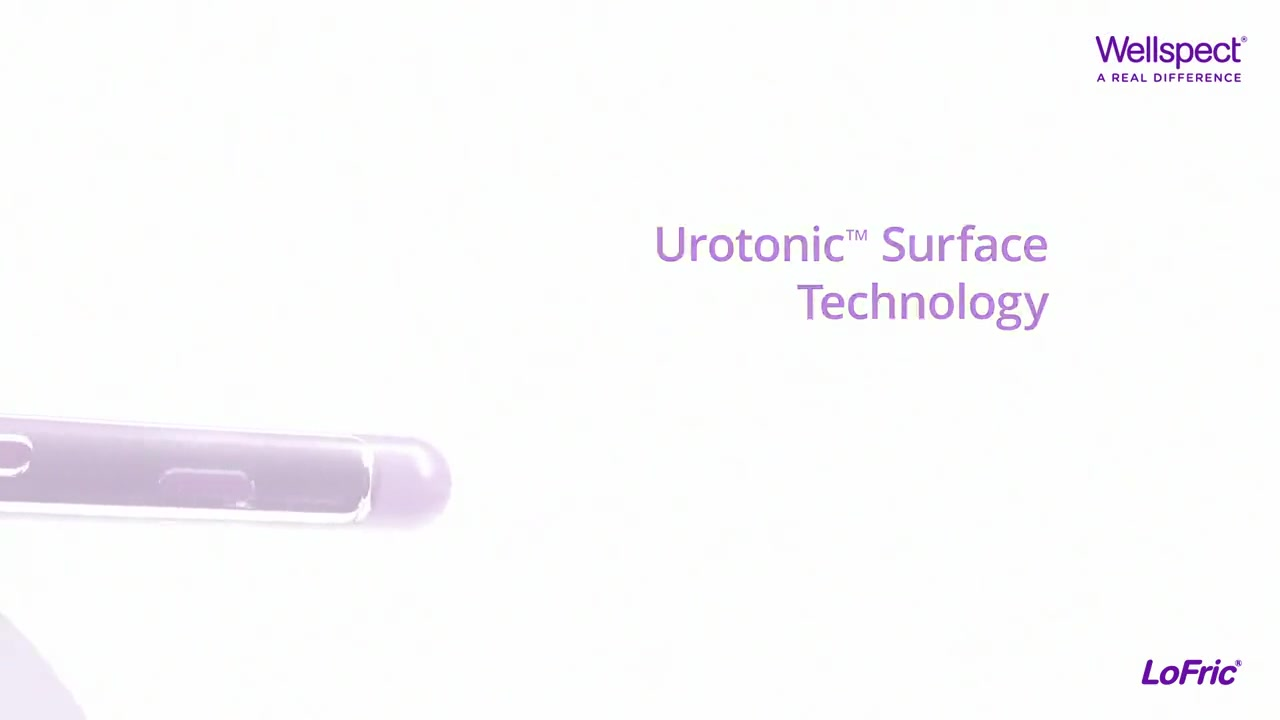
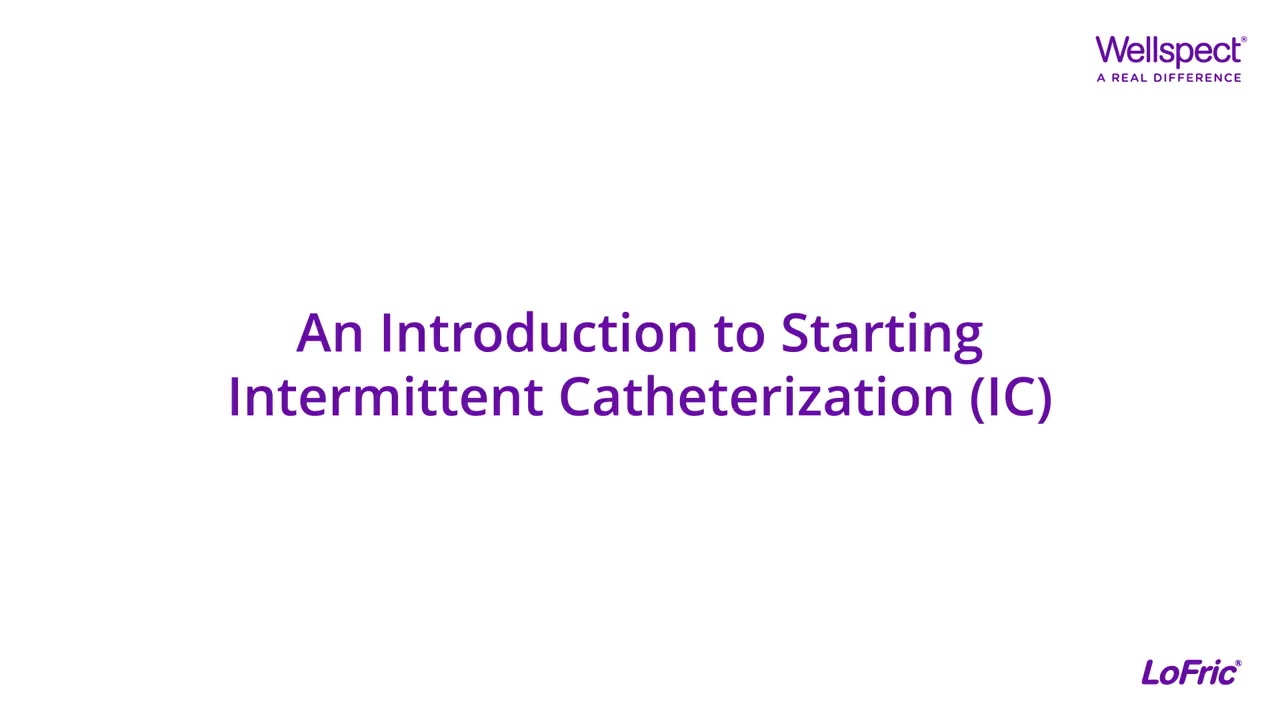
Calm the IC video cards to the feature-card height.
Style them like the Arabic videos card and use each film’s opening title card as the thumbnail.

Changed region(s): [[0.0, 0.3972, 0.8438, 0.7333], [0.5, 0.3056, 0.8438, 0.3667]]

diff --git a/src/routes/index.tsx b/src/routes/index.tsx
@@ -1,5 +1,5 @@
 import { createFileRoute, Link } from "@tanstack/react-router";
-import { useEffect, useMemo, useState } from "react";
+import { useEffect, useLayoutEffect, useMemo, useRef, useState } from "react";
 import { ArrowLeft, Search, X } from "lucide-react";
 import {
   categoryLabels,
@@ -102,6 +102,29 @@ function Index() {
   const showCategories = !searching && active === null;
   const showContact = !searching && active === "contact";
   const icVideos = getIcHomeVideos(locale);
+  const featureCardRef = useRef<HTMLButtonElement>(null);
+  const videoRowRef = useRef<HTMLUListElement>(null);
+
+  useLayoutEffect(() => {
+    const feature = featureCardRef.current;
+    const row = videoRowRef.current;
+    if (!feature || !row) return;
+    const apply = () => {
+      const height = Math.round(feature.getBoundingClientRect().height);
+      row.querySelectorAll<HTMLButtonElement>(":scope > li > button").forEach((button) => {
+        button.style.height = `${height}px`;
+      });
+    };
+    apply();
+    const observer = new ResizeObserver(apply);
+    observer.observe(feature);
+    window.addEventListener("resize", apply);
+    return () => {
+      observer.disconnect();
+      window.removeEventListener("resize", apply);
+    };
+  }, [locale, icVideos.length]);
+
   const secondaryCard =
     "border-border bg-card focus-visible:ring-primary flex min-h-24 w-full flex-col justify-between rounded-2xl border p-5 text-left shadow-soft transition-colors hover:bg-muted/40 focus-visible:ring-2 focus-visible:outline-none";
 
@@ -205,17 +228,18 @@ function Index() {
                     headline={categoryFeatures[c].headline[locale]}
                     subtitle={categoryFeatures[c].subtitle[locale]}
                     onSelect={() => setActive(c)}
+                    buttonRef={c === "women" ? featureCardRef : undefined}
                   />
                 </li>
               ))}
             </ul>
             {icVideos.length > 0 ? (
-              <ul className="mt-6 grid gap-4 md:grid-cols-2">
+              <ul ref={videoRowRef} className="mt-4 grid items-stretch gap-4 md:grid-cols-2">
                 {icVideos.map((video) => (
-                  <li key={video.id}>
+                  <li key={video.id} className="flex">
                     <IcHomeVideoCard
                       video={video}
-                      className="border-border bg-card focus-visible:ring-primary flex h-full w-full flex-col rounded-3xl border p-4 text-left shadow-lift transition-transform duration-300 hover:-translate-y-0.5 focus-visible:ring-2 focus-visible:outline-none sm:p-5"
+                      className={`${secondaryCard} h-full w-full overflow-hidden`}
                     />
                   </li>
                 ))}

diff --git a/src/components/IcHomeVideo.tsx b/src/components/IcHomeVideo.tsx
@@ -69,22 +69,24 @@ export function IcHomeVideoCard({ video, className }: { video: IcHomeVideo; clas
     >
       <DialogTrigger asChild>
         <button type="button" className={className}>
-          <span className="bg-muted relative block overflow-hidden rounded-xl">
+          <span className="flex items-start gap-3">
+            <span className="border-border bg-background text-foreground grid size-9 shrink-0 place-items-center rounded-full border">
+              <Play className="size-4 translate-x-px" aria-hidden="true" />
+            </span>
+            <span className="min-w-0">
+              <span className="text-card-foreground block text-lg font-semibold tracking-tight text-balance">
+                {video.title}
+              </span>
+              <span className="text-muted-foreground mt-3 block text-base">{video.duration}</span>
+            </span>
+          </span>
+          <span className="bg-muted mt-4 flex min-h-28 flex-1 items-center justify-center overflow-hidden rounded-xl">
             <img
               src={publicUrl(video.poster)}
               alt=""
-              className="aspect-video w-full object-cover"
+              className="h-full max-h-full w-full object-contain"
             />
-            <span className="absolute inset-0 grid place-items-center">
-              <span className="text-foreground grid size-10 place-items-center rounded-full bg-white/90 shadow-soft">
-                <Play className="size-4 translate-x-px" aria-hidden="true" />
-              </span>
-            </span>
           </span>
-          <span className="text-card-foreground mt-4 block text-xl font-semibold tracking-tight text-balance sm:text-2xl">
-            {video.title}
-          </span>
-          <span className="text-muted-foreground mt-1 block text-sm">{video.duration}</span>
         </button>
       </DialogTrigger>
       <DialogContent className="max-h-[min(88dvh,52rem)] overflow-y-auto rounded-3xl sm:max-w-2xl clinic-landscape:max-w-3xl">

diff --git a/src/components/CategoryFeatureCard.tsx b/src/components/CategoryFeatureCard.tsx
@@ -1,3 +1,4 @@
+import type { Ref } from "react";
 import type { CategoryFeature } from "@/data/category-features";
 import { publicUrl } from "@/lib/public-url";
 
@@ -25,15 +26,18 @@ export function CategoryFeatureCard({
   headline,
   subtitle,
   onSelect,
+  buttonRef,
 }: {
   feature: CategoryFeature;
   headline: string;
   subtitle: string;
   onSelect: () => void;
+  buttonRef?: Ref<HTMLButtonElement>;
 }) {
   const { accent, figure, image } = feature;
   return (
     <button
+      ref={buttonRef}
       type="button"
       onClick={onSelect}
       className="group focus-visible:ring-primary relative flex h-full min-h-48 w-full flex-row items-stretch overflow-hidden rounded-3xl border bg-card text-left shadow-lift transition-transform duration-300 hover:-translate-y-0.5 focus-visible:ring-2 focus-visible:outline-none active:translate-y-0 md:min-h-[22rem] md:flex-col"

diff --git a/src/data/ic-home-videos.ts b/src/data/ic-home-videos.ts
@@ -26,7 +26,7 @@ const icHomeVideos: Array<{
     videoByLocale: {
       en: {
         title: "Introduction to IC for women",
-        // ic-video-2, 3:29. Poster is the Urotonic frame at 00:02:44.
+        // ic-video-2 opening title card at 00:01.
         src: "/media/ic-video-2.mp4",
         poster: "/media/ic-video-2-poster.jpg",
         duration: "3:29",
@@ -46,7 +46,7 @@ const icHomeVideos: Array<{
     videoByLocale: {
       en: {
         title: "Introduction to IC for men",
-        // ic-video-1, 3:18. Poster is the Nelaton tip frame at 00:02:24.
+        // ic-video-1 opening title card at 00:01.
         src: "/media/ic-video-1.mp4",
         poster: "/media/ic-video-1-poster.jpg",
         duration: "3:18",
